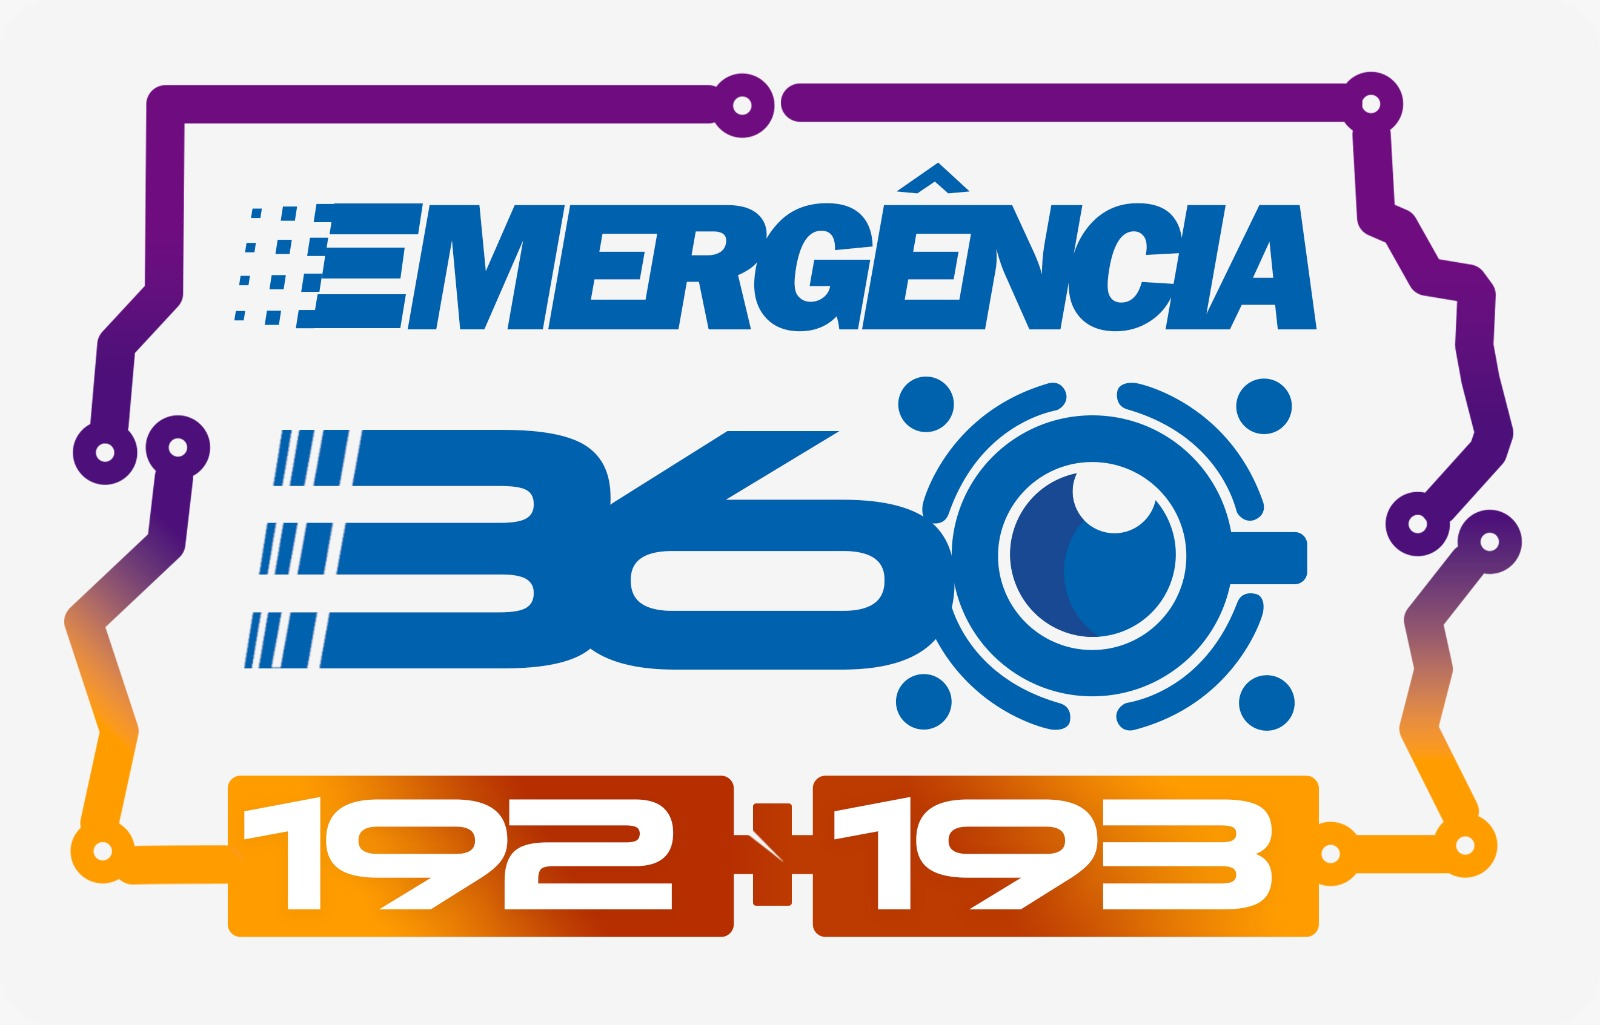
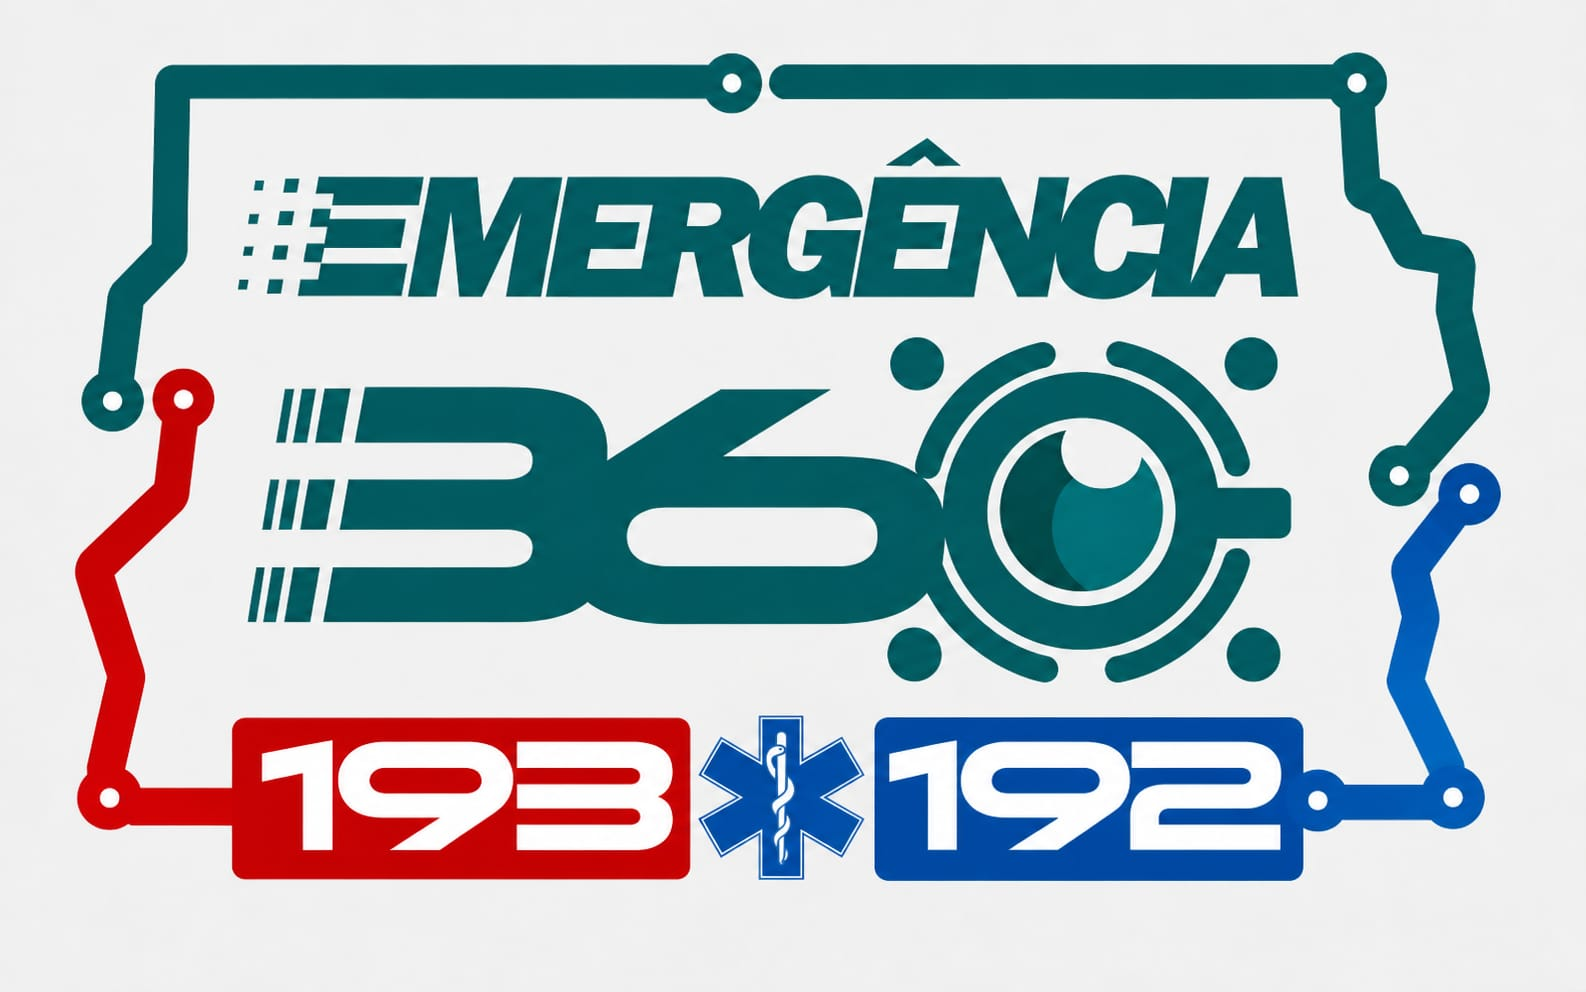
Atualizacao imagens

diff --git a/_index.html b/_index.html
@@ -5,7 +5,7 @@
 
   <title>Emergência 360</title>
 
-  <link rel="icon" type="image/png" href="favicon.png" />
+  <link rel="icon" type="image/png" href="favicon.jpg" />
 
   <meta name="viewport" content="width=device-width, initial-scale=1.0" />
   <meta name="description" content="Plataforma de modelagem e simulação de processos operacionais do CBMDF baseada em BPMN." />